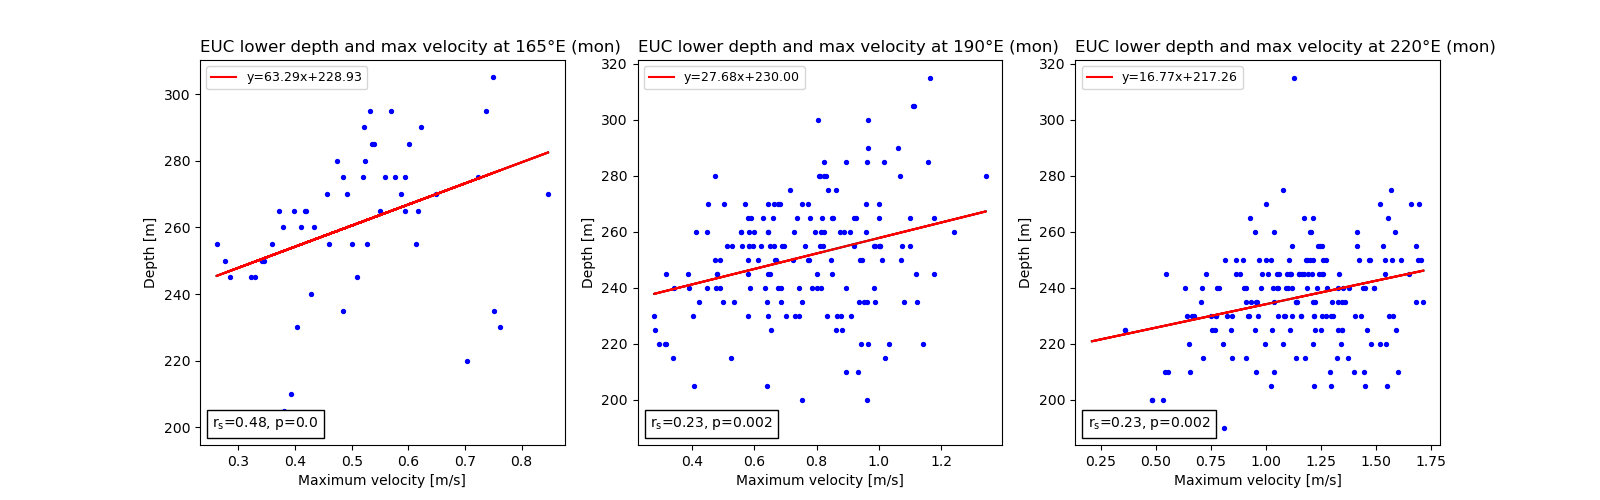
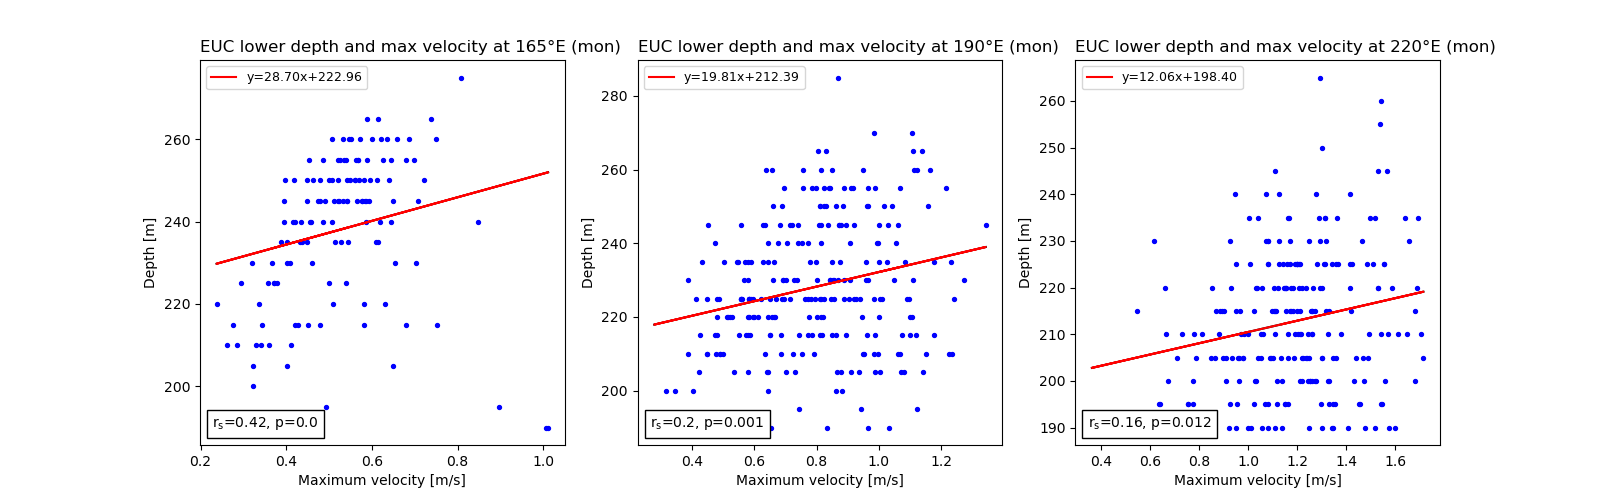
Created untitled notebook to test monthly climo

diff --git a/scripts/main_valid.py b/scripts/main_valid.py
@@ -42,7 +42,7 @@ def open_tao_data(frq='mon', dz=slice(10, 355), SI=True):
 
     Parameters
     ----------
-    frq : str, optional
+    frq : str, optionalOFAM3 and TAO/TRIOFAM3 and TAO/TRITION equatorial velocityTION equatorial velocity
         Data frequency to open (daily or monthly). The default is 'mon'.
     dz : int or slice, optional
        Depth level(s) to select. The default is slice(10, 355).
@@ -50,7 +50,7 @@ def open_tao_data(frq='mon', dz=slice(10, 355), SI=True):
         Convert velocity to SI units. The default is True.
 
     Returns
-    -------
+    -------OFAM3 and TAO/TRITION equatorial velocity
     list
         List of of three xarray datasets.
 
@@ -186,7 +186,7 @@ def plot_tao_timeseries(ds, interp='', T=1, new_end_v=None):
     return
 
 
-def EUC_depths(du, depths, i, v_bnd=0.1, eps=0.05, index=False, log=True):
+def EUC_depths(du, depths, i, v_bnd=0.3, eps=0.05, index=False, log=True):
 
     u = np.ma.masked_invalid(du)
     # Maximum and minimum velocity at each time step.
